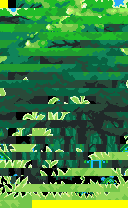
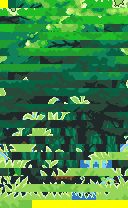
map previews for forest type fade in correctly
(cherry picked from commit 9e995d1dba87e25c187eaab8ba391060b94670f1)

diff --git a/src/map_preview_screen.c b/src/map_preview_screen.c
@@ -4,6 +4,7 @@
 #include "field_weather.h"
 #include "gpu_regs.h"
 #include "malloc.h"
+#include "map_name_popup.h"
 #include "map_preview_screen.h"
 #include "menu.h"
 #include "overworld.h"
@@ -11,6 +12,7 @@
 #include "region_map.h"
 #include "rtc.h"
 #include "script.h"
+#include "secret_base.h"
 #include "string_util.h"
 #include "constants/region_map_sections.h"
 
@@ -185,7 +187,7 @@ static const struct MapPreviewScreen sMapPreviewScreenData[MPS_COUNT] = {
         .mapsec = MAPSEC_VIRIDIAN_FOREST,
         .flagId = FLAG_WORLD_MAP_VIRIDIAN_FOREST,
 #if IS_HNS
-        .type = MPS_TYPE_BASIC,
+        .type = MPS_TYPE_FOREST,
         .tilesptr = sViridianForestHgssMapPreviewTiles,
         .tilemapptr = sViridianForestHgssMapPreviewTilemap,
         .palptr = sViridianForestHgssMapPreviewPalette,
@@ -498,7 +500,7 @@ static const struct MapPreviewScreen sMapPreviewScreenData[MPS_COUNT] = {
     },
     [MPS_HGSS_ILEX_FOREST] = {
         .mapsec = MAPSEC_ILEX_FOREST,
-        .type = MPS_TYPE_BASIC,
+        .type = MPS_TYPE_FOREST,
         .flagId = FLAG_WORLD_MAP_ILEX_FOREST,
         .tilesptr = sIlexForestMapPreviewTiles,
         .tilemapptr = sIlexForestMapPreviewTilemap,
@@ -753,7 +755,9 @@ void MapPreview_StartForestTransition(mapsec_u8_t mapsec)
     SetGpuReg(REG_OFFSET_BLDALPHA, BLDALPHA_BLEND(16, 0));
     SetGpuRegBits(REG_OFFSET_WININ, WININ_WIN0_CLR | WININ_WIN1_CLR);
     SetGpuRegBits(REG_OFFSET_WINOUT, WINOUT_WIN01_CLR);
-    gTasks[taskId].data[11] = MapPreview_CreateMapNameWindow(mapsec);
+    // No map-name window on the preview itself: the location name is shown by the
+    // normal map-name popup once the transition has finished, matching how the
+    // CAVE and BASIC previews behave.
     LockPlayerFieldControls();
 }
 
@@ -802,7 +806,6 @@ static void Task_RunMapPreviewScreenForest(u8 taskId)
     case 0:
         if (!MapPreview_IsGfxLoadFinished() && !IsDma3ManagerBusyWithBgCopy())
         {
-            CopyWindowToVram(data[11], COPYWIN_FULL);
             data[0]++;
         }
         break;
@@ -858,13 +861,16 @@ static void Task_RunMapPreviewScreenForest(u8 taskId)
     case 5:
         if (!IsDma3ManagerBusyWithBgCopy())
         {
-            MapPreview_Unload(data[11]);
+            MapPreview_UnloadBgOnly();
             SetBgAttribute(0, BG_ATTR_PRIORITY, data[2]);
             SetGpuReg(REG_OFFSET_DISPCNT, data[3]);
             SetGpuReg(REG_OFFSET_BLDCNT, data[4]);
             SetGpuReg(REG_OFFSET_BLDALPHA, data[5]);
             SetGpuReg(REG_OFFSET_WININ, data[6]);
             SetGpuReg(REG_OFFSET_WINOUT, data[7]);
+            // Now that the preview is gone, announce the map the normal way.
+            if (gMapHeader.showMapName == TRUE && SecretBaseMapPopupEnabled() == TRUE)
+                ShowMapNamePopup();
             DestroyTask(taskId);
         }
         break;
